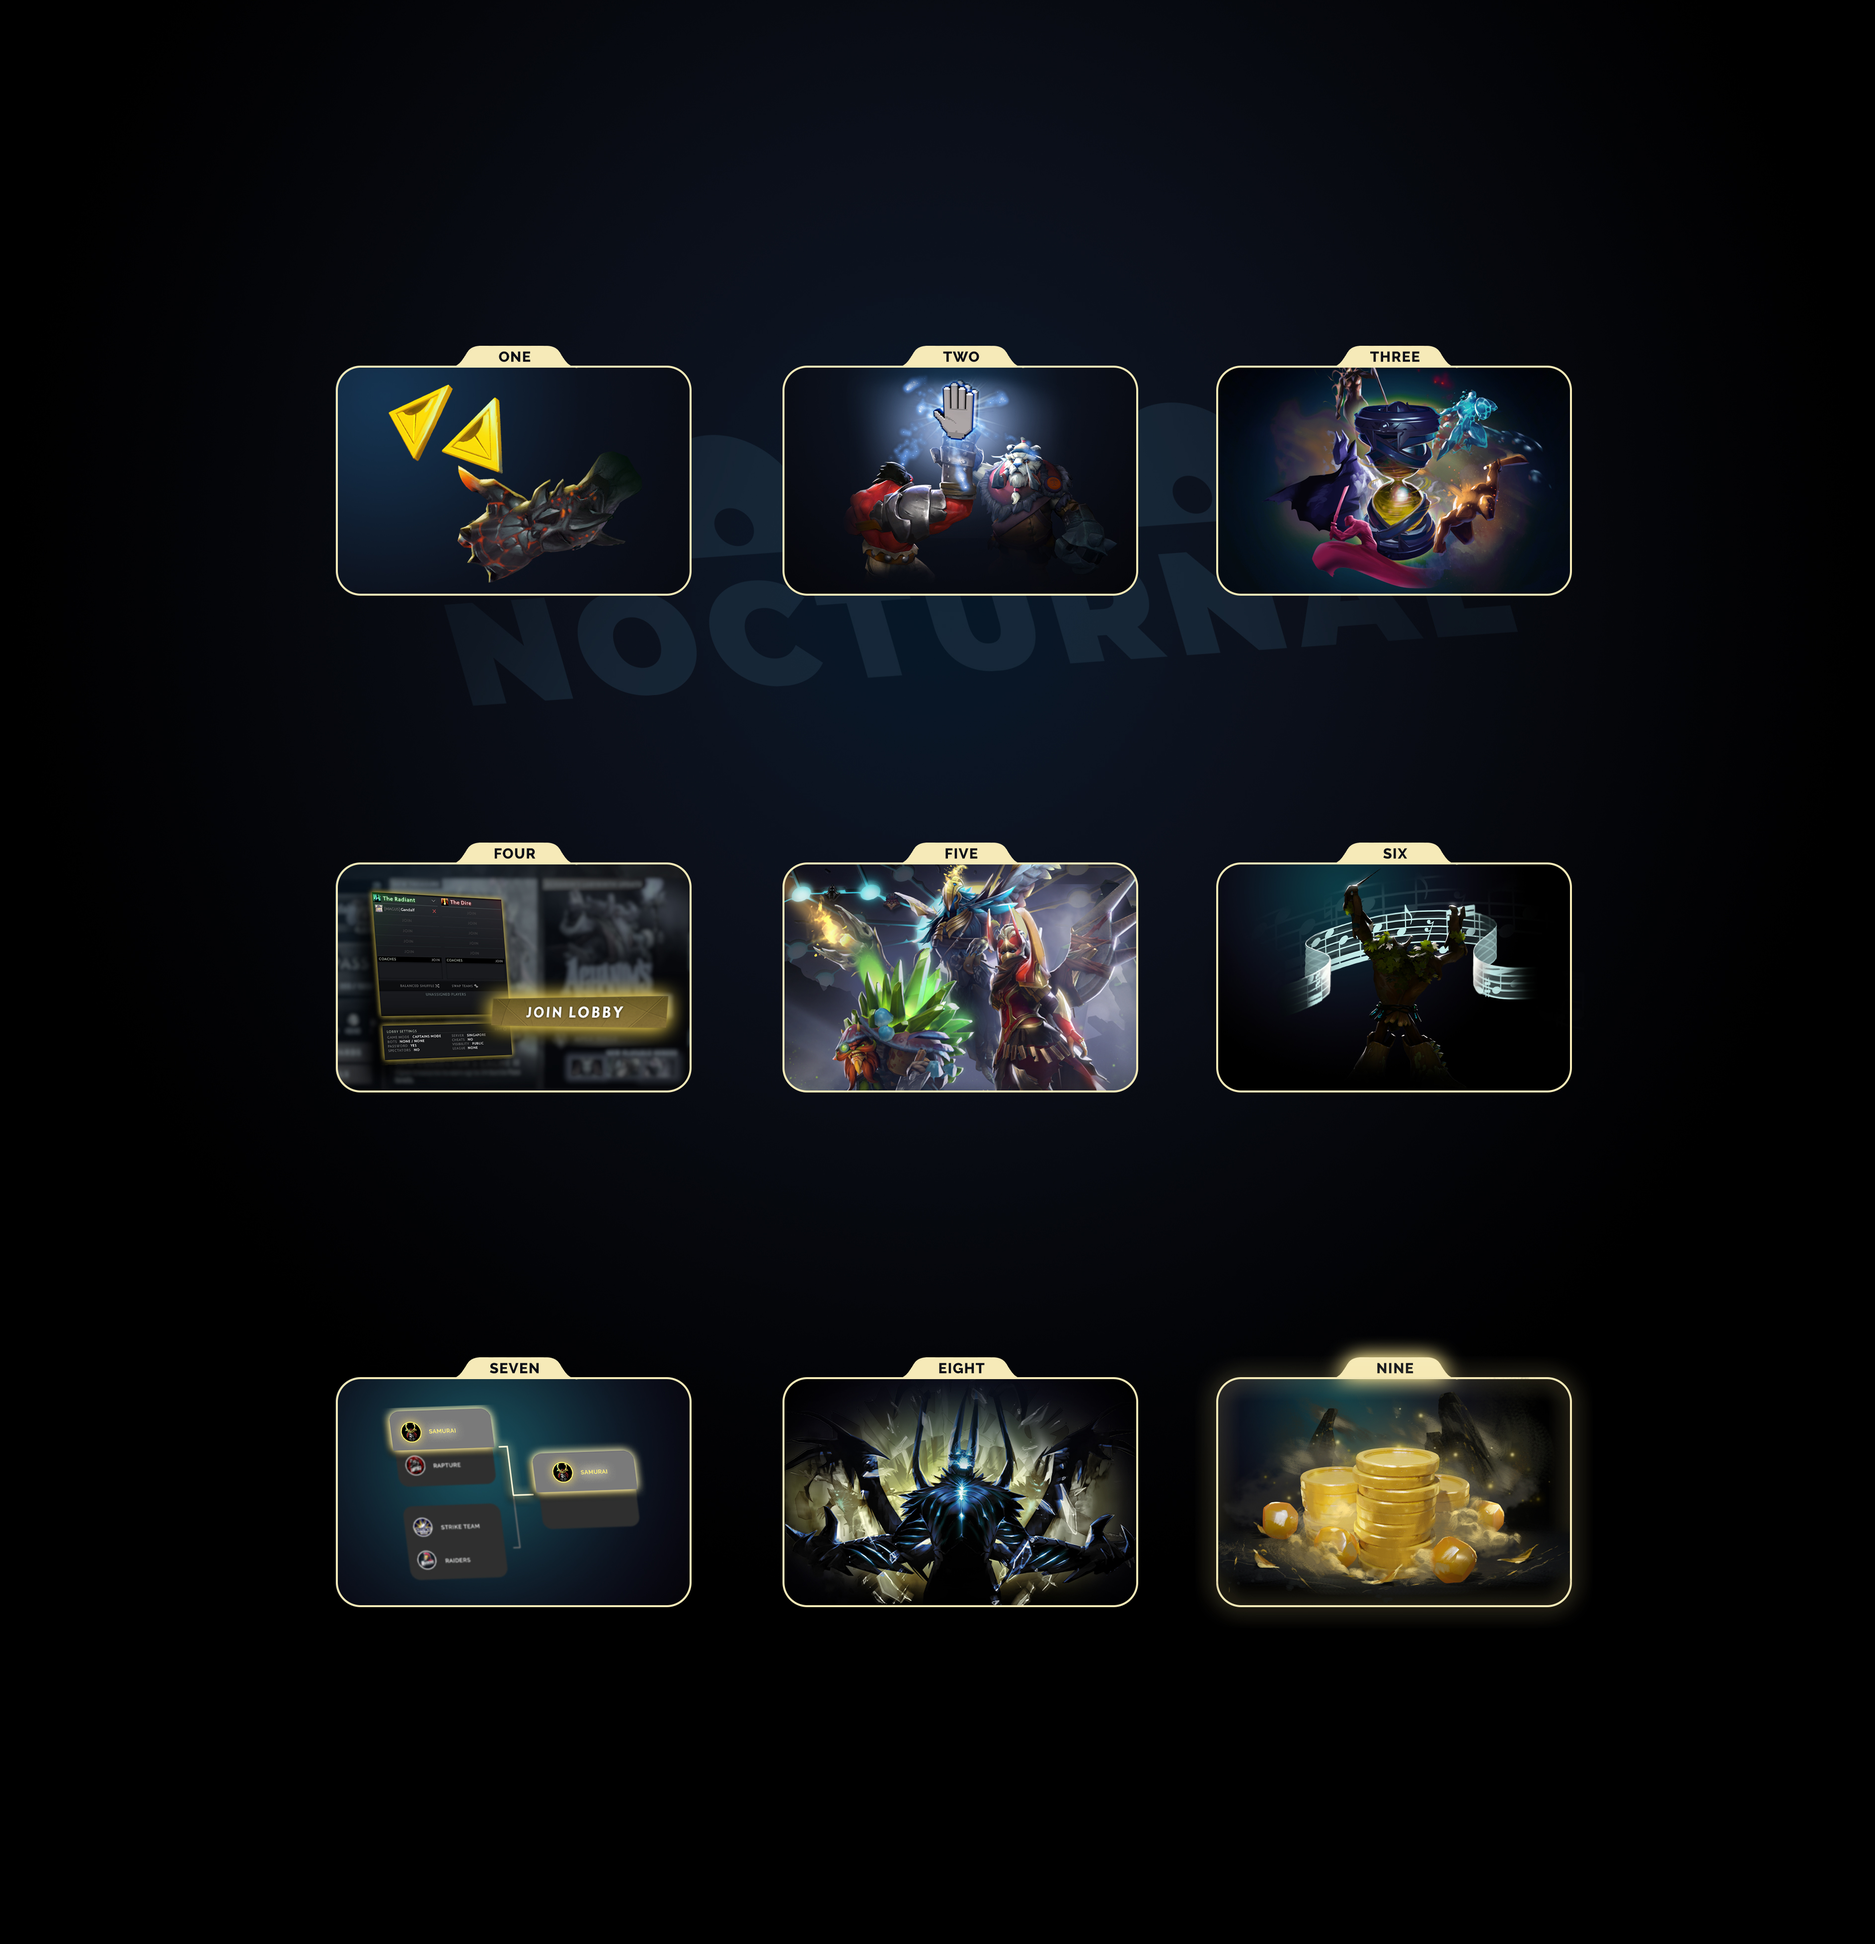
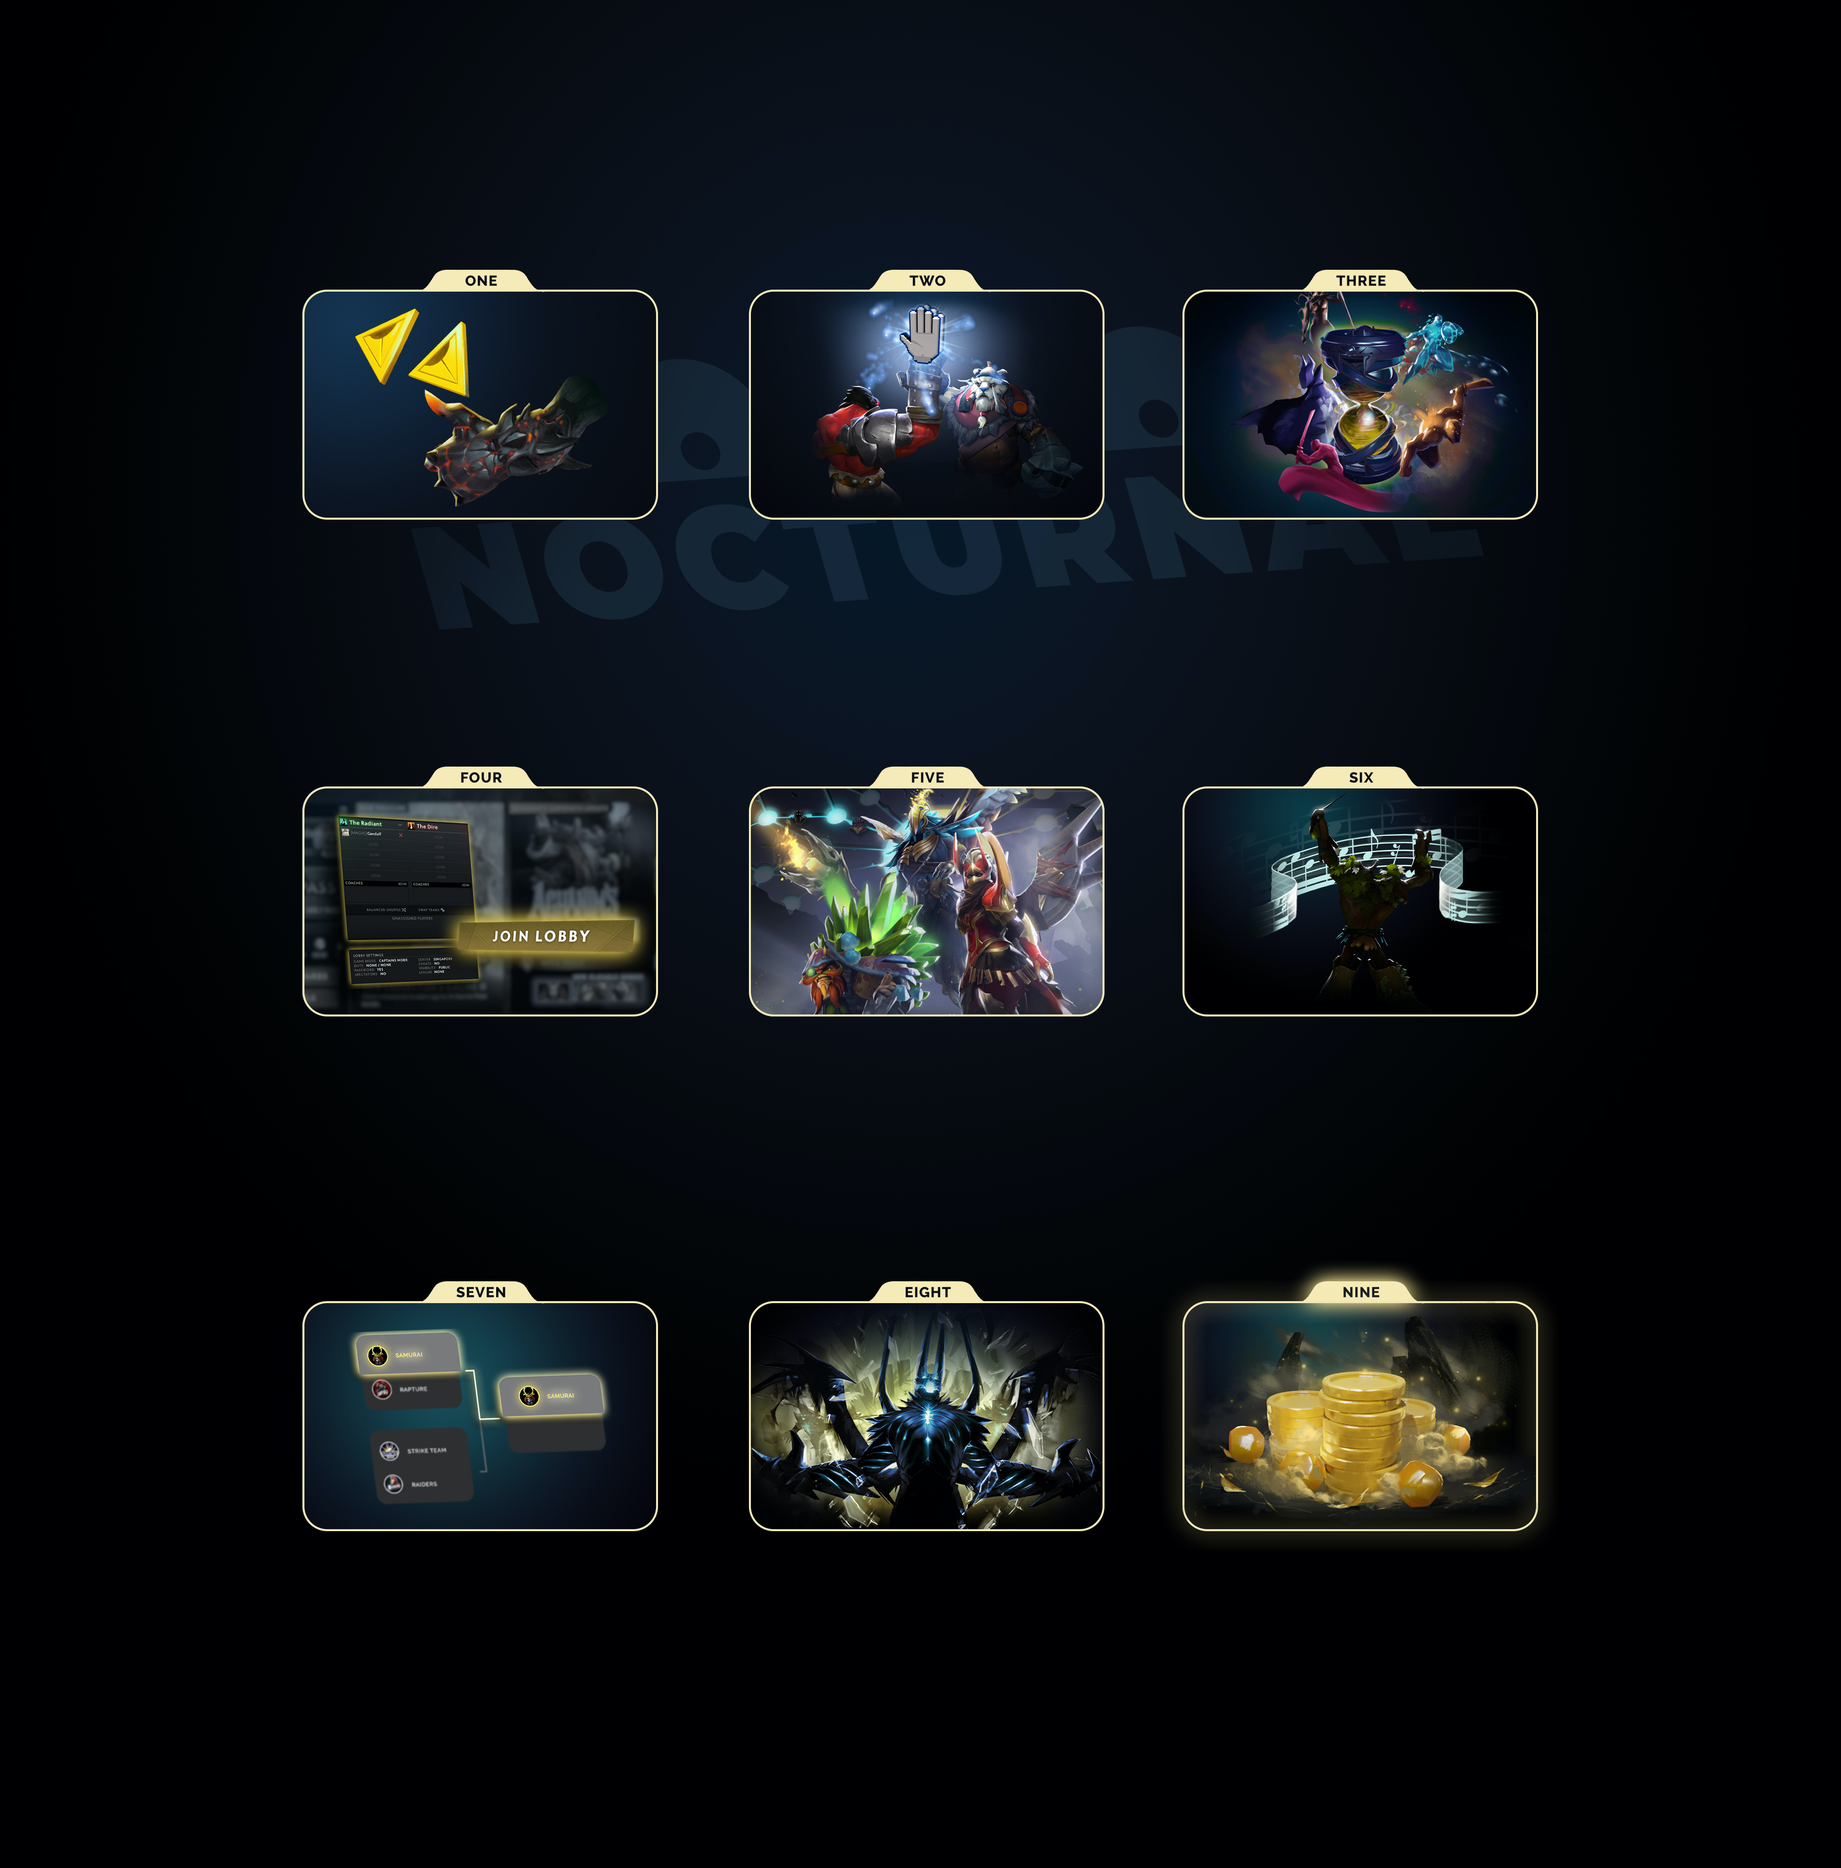
Responsive between rows and as a container
Cropped background image to center

diff --git a/app/webpacker/src/stylesheets/league.scss b/app/webpacker/src/stylesheets/league.scss
@@ -19,6 +19,7 @@
   background-repeat: no-repeat;
   background-image: url("../src/images/League-Page-Overview-SoE-new.jpg");
   border-bottom: 1px solid #fddc56;
+  padding: 4% 15%;
 }
 
 #league-lobby-settings {
@@ -69,15 +70,15 @@
 
 // Sequence of events page 3x3 grid row position
 .events-row-1 {
-  margin-top: 27%;
+  margin-top: calc(38% - 135px);
 }
 
 .events-row-2 {
-  margin-top: 21%;
+  margin-top: calc(39% - 153px);
 }
 
 .events-row-3 {
-  margin-top: 28%;
+  margin-top: calc(39% - 83px);
 }
 
 .soe-category-title-size {
